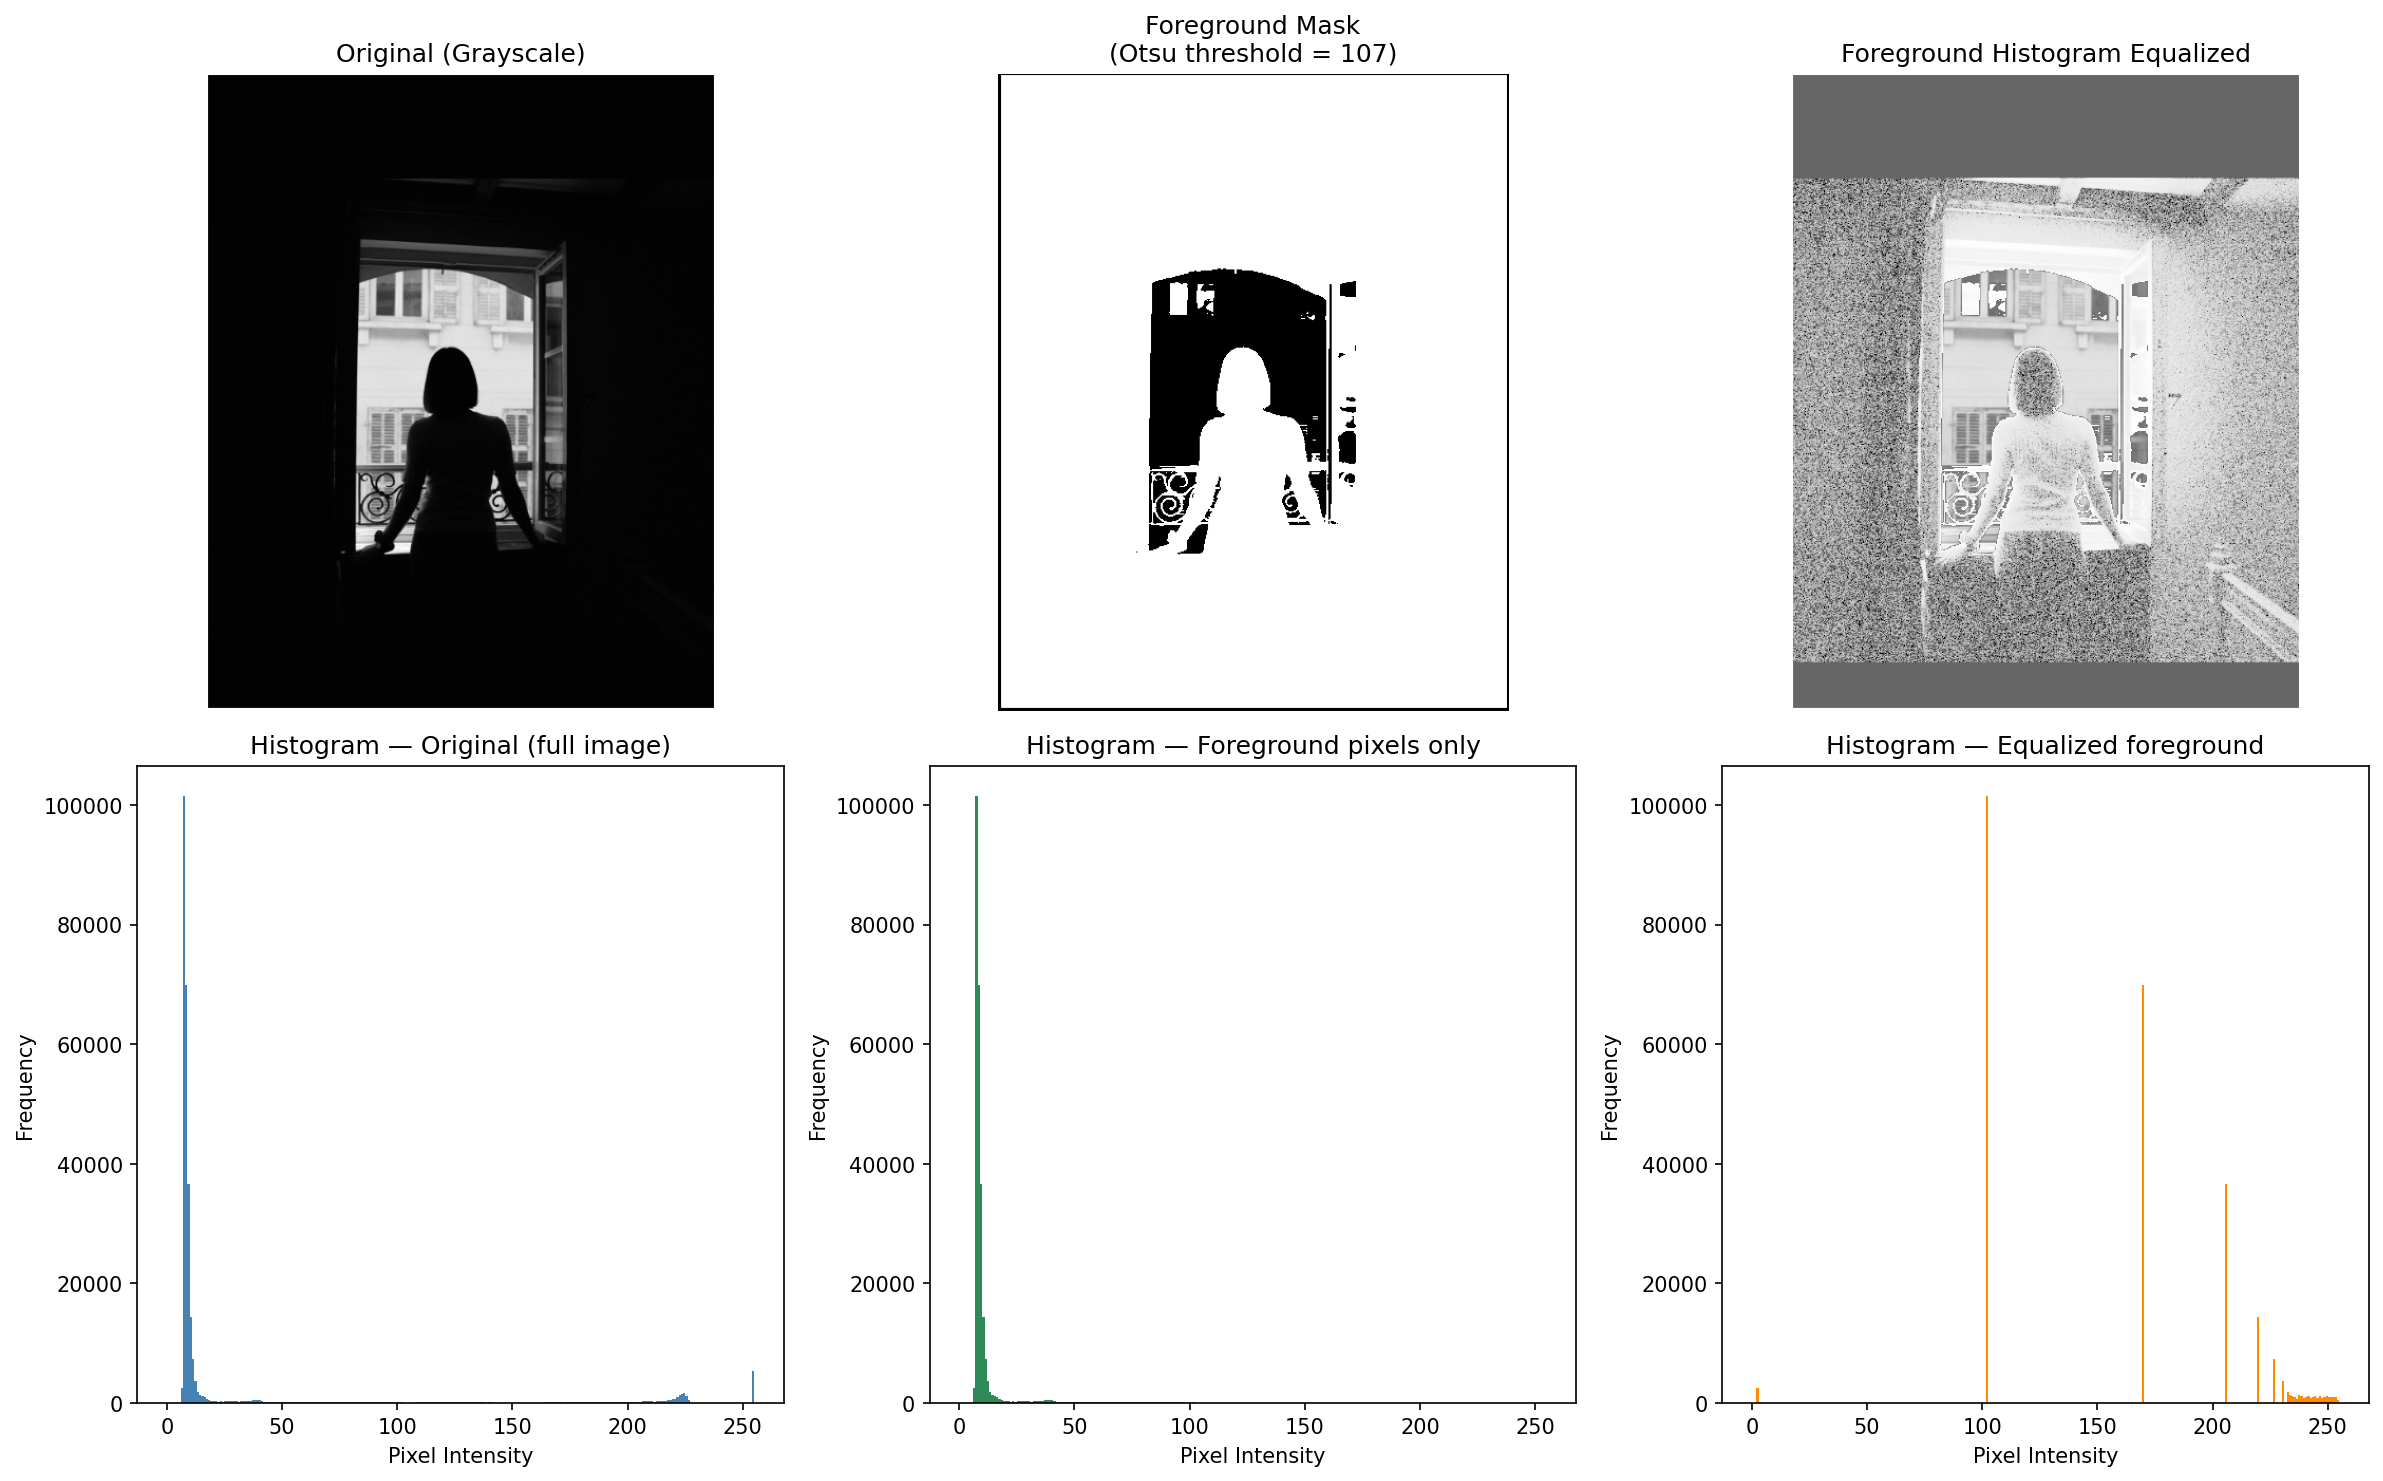
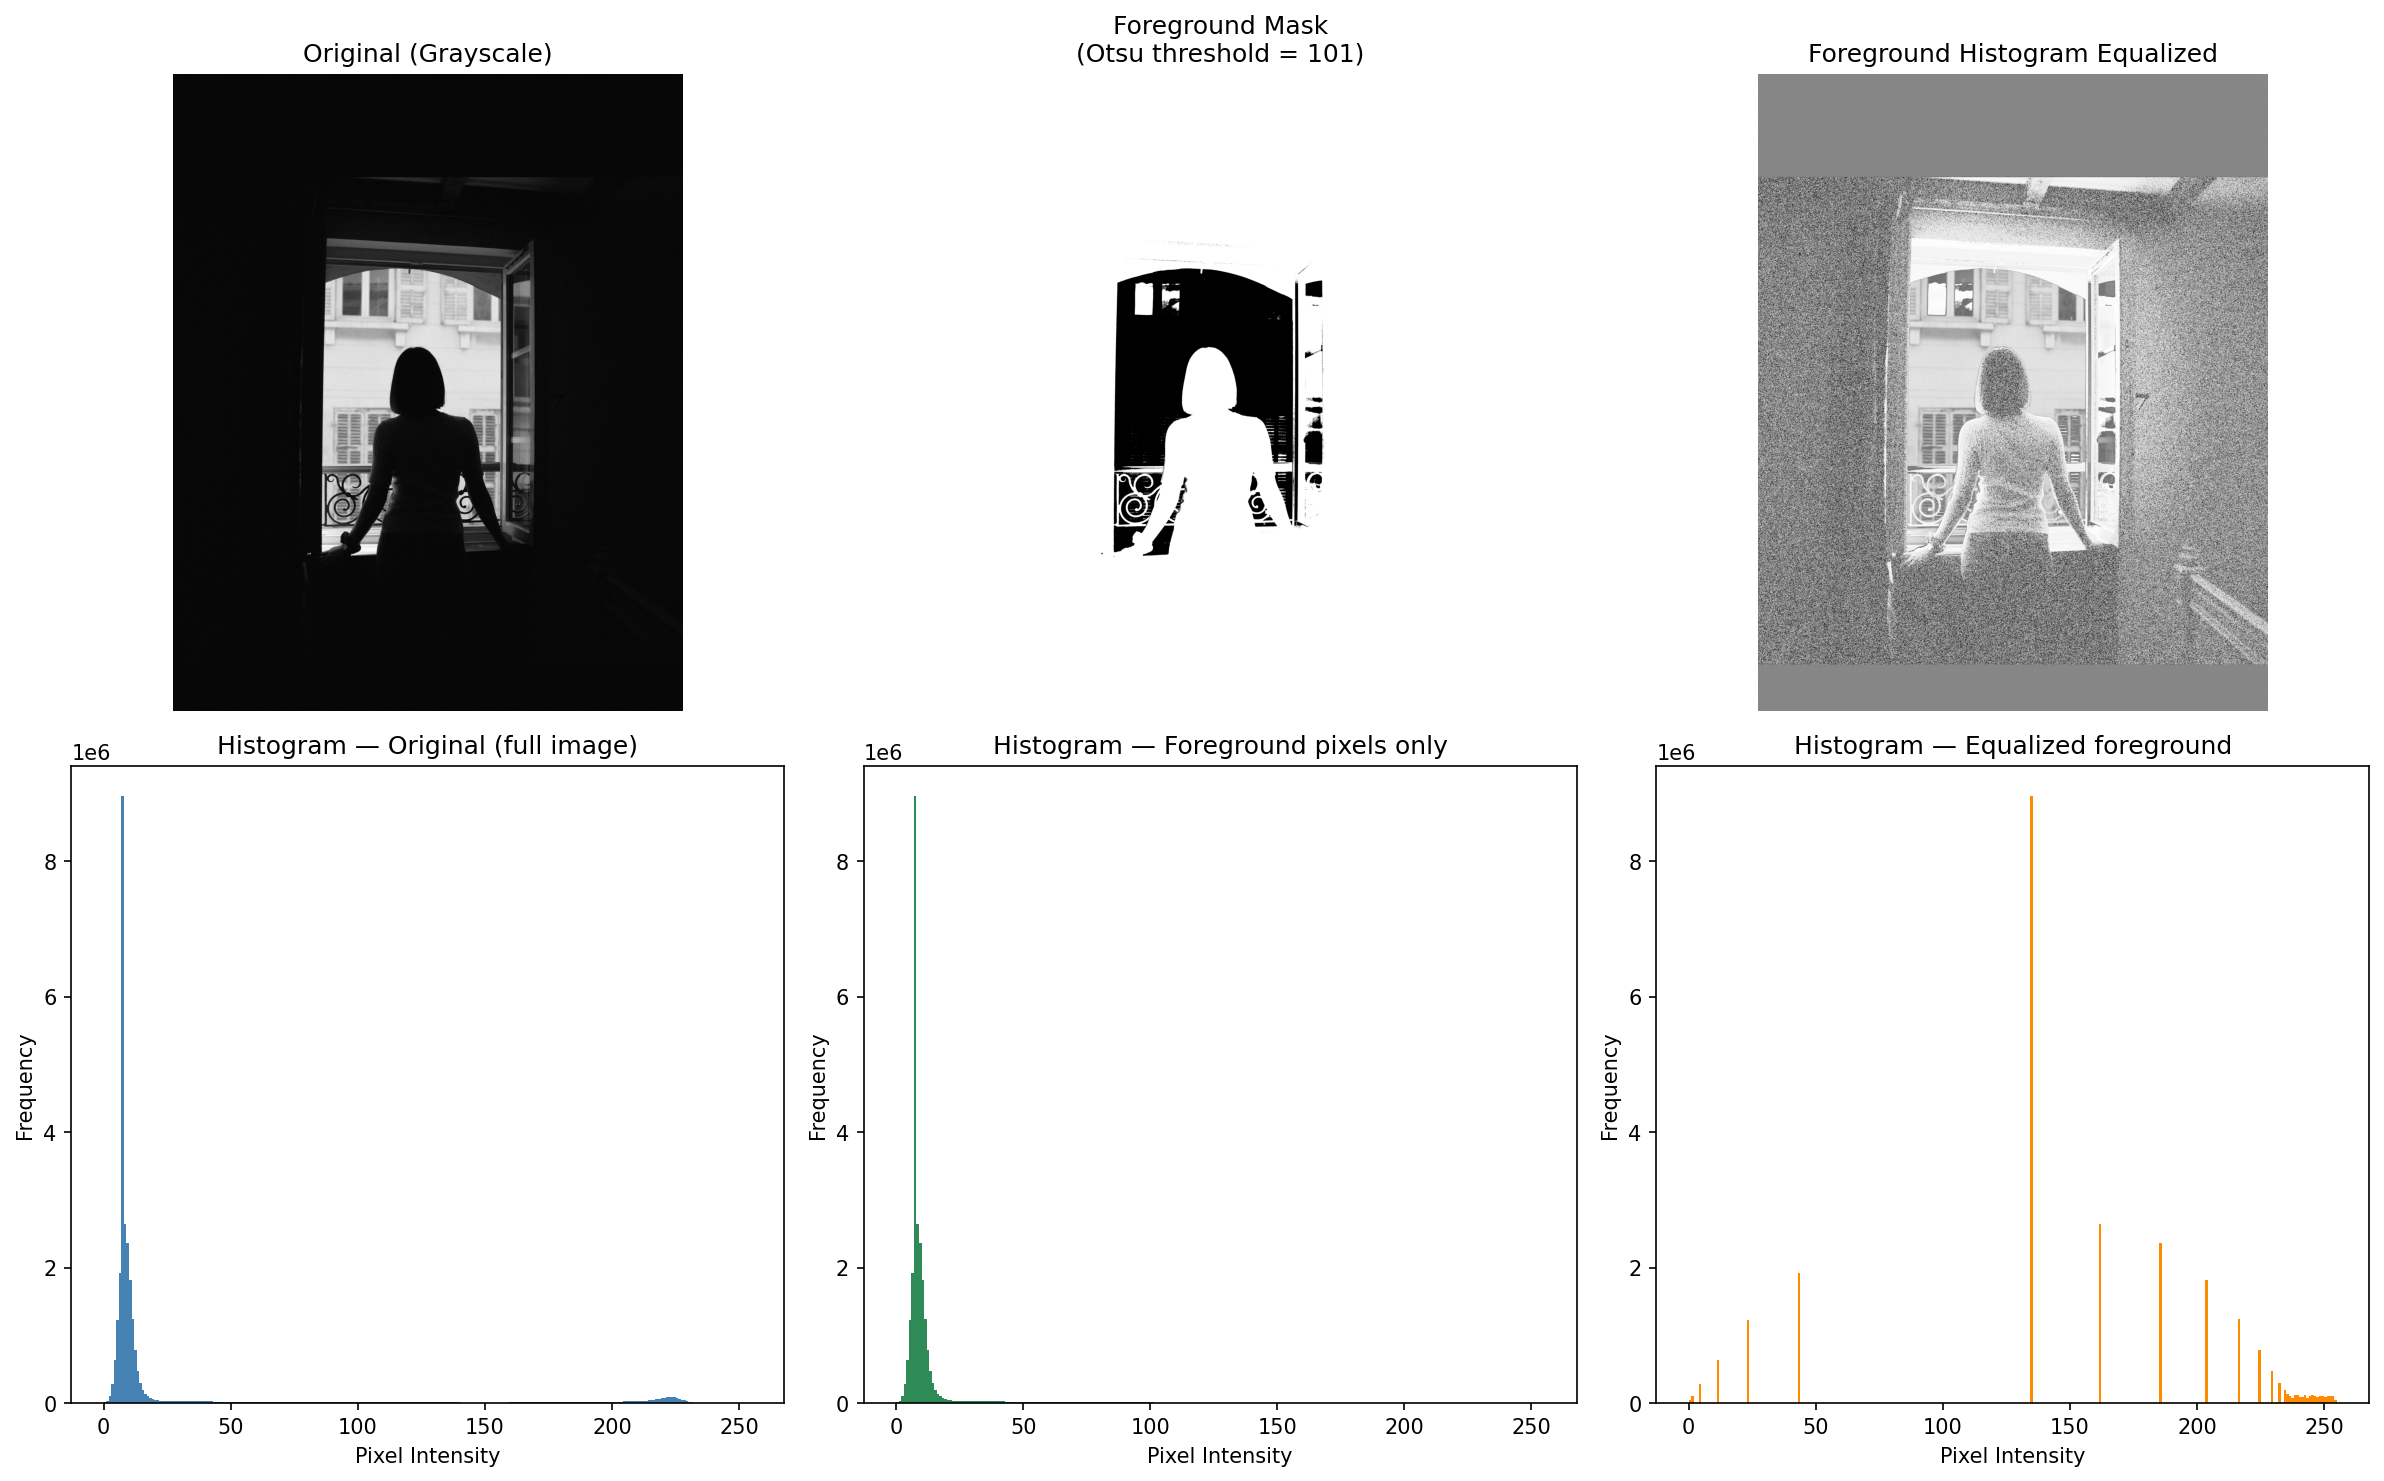
Update woman standing near open window image

diff --git a/foreground_histogram_equalization.py b/foreground_histogram_equalization.py
@@ -2,7 +2,7 @@ import cv2
 import numpy as np
 import matplotlib.pyplot as plt
 
-imgPath = 'images/woman_open_window.png'
+imgPath = 'images/woman_open_window.jpg'
 img = cv2.imread(imgPath)
 if img is None:
     raise FileNotFoundError(f"Could not load '{imgPath}'. Check the file path.")

diff --git a/grayscale_conversion.py b/grayscale_conversion.py
@@ -1,7 +1,7 @@
 import cv2
 import matplotlib.pyplot as plt
 
-imgPath = 'images/woman_open_window.png'
+imgPath = 'images/woman_open_window.jpg'
 img = cv2.imread(imgPath)
 if img is None:
     raise FileNotFoundError(f"Could not load '{imgPath}'. Check the file path.")

diff --git a/otsu_thresholding.py b/otsu_thresholding.py
@@ -1,7 +1,7 @@
 import cv2
 import matplotlib.pyplot as plt
 
-imgPath = 'images/woman_open_window.png'
+imgPath = 'images/woman_open_window.jpg'
 img = cv2.imread(imgPath)
 if img is None:
     raise FileNotFoundError(f"Could not load '{imgPath}'. Check the file path.")
